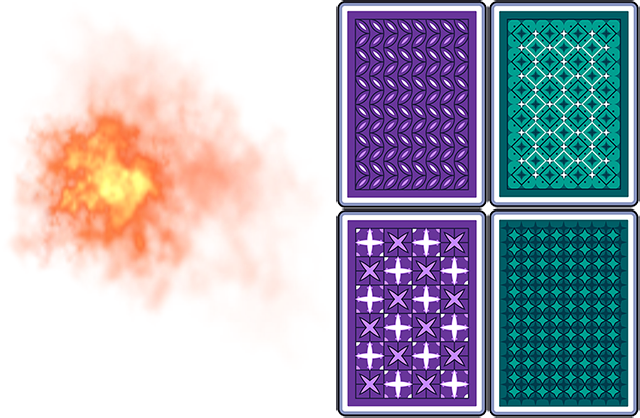
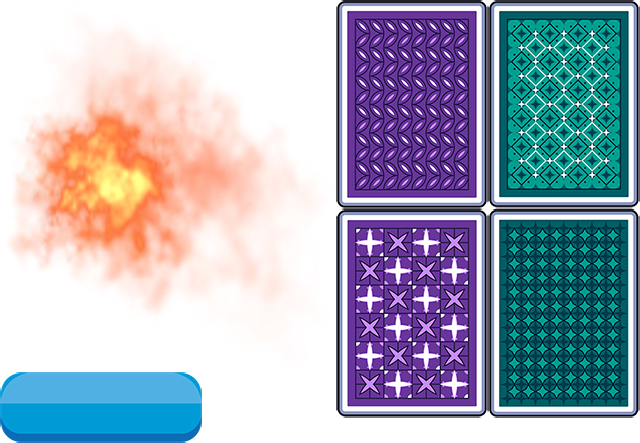
Removed Listeners for all scenes.

diff --git a/src/js/scenes/CardsScene.ts b/src/js/scenes/CardsScene.ts
@@ -4,6 +4,8 @@ import CardDeck from '../helpers/CardDeck';
 import CardsDeckManager from '../helpers/CardsDeckManager';
 import Fps from '../helpers/Fps';
 import { Scene } from '../helpers/Scene';
+import { sceneManager } from '../main';
+import FireScene from './FireScene';
 
 import assetsData from '../../assets/data/assets.json';
 import gameConfig from '../../assets/data/ace_of_shadows_config.json';
@@ -15,6 +17,7 @@ export default class CardsScene extends Scene {
     private _app: PIXI.Application;
     private _basicAnimations: BasicAnimations;
     private _fpsCounter?: Fps;
+    private _cardsDeckManager?: CardsDeckManager;
 
     constructor(app: PIXI.Application) {
         super();
@@ -46,6 +49,7 @@ export default class CardsScene extends Scene {
     private create(): void {
 
         sound.playSound('walking_jazz', true,0.5);
+        
         const cardsBackground = new PIXI.Sprite(PIXI.Assets.get('backgroundBlue'));
         cardsBackground.anchor.set(0.5);
         cardsBackground.angle = 90;
@@ -66,6 +70,17 @@ export default class CardsScene extends Scene {
         bitmapFontText.anchor.set(0.5);
         this._app.stage.addChild(bitmapFontText);
 
+        const button = new PIXI.Sprite(PIXI.Assets.get('gameAtlas').textures['button']);
+        button.anchor.set(0.5);
+        button.position.set(this._app.screen.width * 0.5, this._app.screen.height * 0.9);
+        button.eventMode = 'static';
+        button.cursor = 'pointer';
+        this._app.stage.addChild(button);
+        button.on('pointerdown', () => {
+            sound.playSound('pop');
+            sceneManager.changeScene(new FireScene(this._app));
+        });
+
         this._createCardDecks();
         this._createFPSCounter();
     }
@@ -82,12 +97,19 @@ export default class CardsScene extends Scene {
         cardDeck2.y = cardDeck.y;
         this._app.stage.addChild(cardDeck2);
 
-        const cardsDeckManager = new CardsDeckManager();
-        cardsDeckManager.moveCardsToDeck(this._app.stage, cardDeck, cardDeck2, gameConfig.cards_change_frequency, gameConfig.cards_change_speed);
+        this._cardsDeckManager = new CardsDeckManager();
+        this._cardsDeckManager.moveCardsToDeck(this._app.stage, cardDeck, cardDeck2, gameConfig.cards_change_frequency, gameConfig.cards_change_speed);
 
     }
 
     private _createFPSCounter(): void {
         this._fpsCounter = new Fps(this._app, 'FPS: 0');
+    }
+
+    public onDestroy(): void {
+        sound.stopAllSounds();
+        this._cardsDeckManager?.stopMovingCardsToDeck();
+        this._fpsCounter?.removeUpdateListener();
+
     }
 }

diff --git a/src/js/utilities/Sound.ts b/src/js/utilities/Sound.ts
@@ -2,10 +2,10 @@ import { resolve } from "../../../webpack.config";
 
 class Sound {
     private static instance: Sound;
-    private sounds: Map<string, HTMLAudioElement>;
+    private _sounds: Map<string, HTMLAudioElement>;
 
     private constructor() {
-        this.sounds = new Map();
+        this._sounds = new Map();
     }
 
     public static getInstance(): Sound {
@@ -21,18 +21,18 @@ class Sound {
 
             audio.addEventListener('error', () => {
                 console.error(`Failed to load sound "${key}" from URL: ${url}`);
-                this.sounds.delete(key); 
+                this._sounds.delete(key); 
             });
 
             audio.addEventListener('canplaythrough', () => {
-                this.sounds.set(key, audio);
+                this._sounds.set(key, audio);
                 resolve();
             });
         });
     }
 
-    playSound(key: string, loop: boolean = false, volume: number = 1.0): void {
-        const sound = this.sounds.get(key);
+    public playSound(key: string, loop: boolean = false, volume: number = 1.0): void {
+        const sound = this._sounds.get(key);
         if (!sound) {
             console.error(`Sound "${key}" not found!`);
             return;
@@ -47,19 +47,28 @@ class Sound {
         });
     }
 
-    stopSound(key: string): void {
-        const sound = this.sounds.get(key);
+    public stopSound(key: string): void {
+        const sound = this._sounds.get(key);
         if (sound && !sound.paused) {
             sound.pause();
             sound.currentTime = 0;
         }
     }
 
-    setVolume(key: string, volume: number): void {
-        const sound = this.sounds.get(key);
+    public setVolume(key: string, volume: number): void {
+        const sound = this._sounds.get(key);
         if (sound) {
             sound.volume = Math.max(0, Math.min(1, volume)); 
         }
+    }
+
+    public stopAllSounds(): void {
+        this._sounds.forEach((sound) => {
+            if (!sound.paused) {
+                sound.pause();
+                sound.currentTime = 0;
+            }
+        });
     }
 }
 

diff --git a/src/js/scenes/ChatScene.ts b/src/js/scenes/ChatScene.ts
@@ -2,7 +2,9 @@ import * as PIXI from 'pixi.js';
 import BasicAnimations from '../helpers/BasicAnimations';
 import IconsManager from '../helpers/IconsManager';
 import ChatManager from '../helpers/ChatManager';
+import CardsScene from './CardsScene';
 import { Scene } from '../helpers/Scene';
+import { sceneManager } from '../main';
 import Fps from '../helpers/Fps';
 
 import assetsData from '../../assets/data/assets.json';
@@ -15,6 +17,7 @@ export default class ChatScene extends Scene {
     private _basicAnimations: BasicAnimations;
     private _chatData?: JSON;
     private _fpsCounter?: Fps;
+    private _chatManager?: ChatManager;
 
     constructor(app: PIXI.Application) {
         super();
@@ -56,14 +59,32 @@ export default class ChatScene extends Scene {
         const chatManager = new ChatManager(this._app);
         chatManager.y = this._app.screen.height * 0.8;
         this._app.stage.addChild(chatManager);
+        this._chatManager = chatManager;
 
         chatManager.showDialogs(this._chatData);
         this._createFpsCounter();
+
+        const button = new PIXI.Sprite(PIXI.Assets.get('gameAtlas').textures['button']);
+        button.anchor.set(0.5);
+        button.position.set(this._app.screen.width * 0.5, this._app.screen.height * 0.9);
+        button.eventMode = 'static';
+        button.cursor = 'pointer';
+        this._app.stage.addChild(button);
+        button.on('pointerdown', () => {
+            sound.playSound('pop');
+            sceneManager.changeScene(new CardsScene(this._app));
+        });
         
         sound.playSound('bbt_song', true,0.2);
     }
 
     private _createFpsCounter(): void {
         this._fpsCounter = new Fps(this._app,'');
+    }
+
+    public onDestroy(): void {
+        sound.stopAllSounds();
+        this._fpsCounter?.removeUpdateListener();
+        this._chatManager?.stopDialogs();
     }
 }

diff --git a/src/js/scenes/FireScene.ts b/src/js/scenes/FireScene.ts
@@ -2,6 +2,8 @@ import * as PIXI from 'pixi.js';
 import FireParticles from '../helpers/FireParticles';
 import { Scene } from '../helpers/Scene';
 import Fps from '../helpers/Fps';
+import CardsScene from './CardsScene';
+import { sceneManager } from '../main';
 
 import assetsData from '../../assets/data/assets.json';
 
@@ -63,6 +65,18 @@ export default class Fire extends Scene {
         this._fireContainer.position.set(this._app.screen.width * 0.5, this._app.screen.height * 0.5);
         this._app.stage.addChild(this._fireContainer);
 
+        const button = new PIXI.Sprite(PIXI.Assets.get('gameAtlas').textures['button']);
+        button.anchor.set(0.5);
+        button.position.set(this._app.screen.width * 0.5, this._app.screen.height * 0.9);
+        button.eventMode = 'static';
+        button.cursor = 'pointer';
+        this._app.stage.addChild(button);
+        button.on('pointerdown', () => {
+            sound.playSound('pop');
+            sceneManager.changeScene(new CardsScene(this._app));
+        });
+
+
         sound.playSound('fire_sound', true, 0.2);
         this._followMouse();
         this._createFPSCounter();
@@ -85,5 +99,10 @@ export default class Fire extends Scene {
 
     private _createFPSCounter(): void {
         this._fpsCounter = new Fps(this._app, '', 'futuraPTBold', 24);
+    }
+
+    public onDestroy(): void {
+        sound.stopAllSounds();
+        this._fpsCounter?.removeUpdateListener();
     }
 }

diff --git a/src/js/helpers/ChatManager.ts b/src/js/helpers/ChatManager.ts
@@ -9,16 +9,19 @@ export default class ChatManager extends PIXI.Container {
     private _messagesPosition: number = 0;
     private _messagesOffset: number;
     private _currentDialogIndex: number = 0;
+    private _active : boolean;
+    private _currentChatDialog?: ChatDialog;
 
     constructor(app: PIXI.Application, messagesOffset: number = 150) {
         super();
         this._app = app;
         this._messagesOffset = messagesOffset;
         this._currentDialogIndex = 0;
+        this._active = true;
     }
 
     public async showDialogs(data: any): Promise<void> {
-        if (this._currentDialogIndex >= data.dialogue.length) {
+        if (this._currentDialogIndex >= data.dialogue.length || !this._active) {
             return;
         }
 
@@ -29,9 +32,18 @@ export default class ChatManager extends PIXI.Container {
         const chatDialog = new ChatDialog(this._app, currentDialog, data.avatars, gameConfig.time_per_word);
         chatDialog.y = this._messagesPosition;
         this.addChild(chatDialog);
+
+        this._currentChatDialog = chatDialog;
         this._messagesPosition += this._messagesOffset;
         await chatDialog.showDialog();
         this._currentDialogIndex++;
         this.showDialogs(data);
+    }
+
+    public stopDialogs(): void {
+        this._active = false;
+        if (this._currentChatDialog) {
+            this._currentChatDialog.stopShowingDialog();
+        }
     }
 }

diff --git a/src/js/helpers/ChatDialog.ts b/src/js/helpers/ChatDialog.ts
@@ -12,6 +12,7 @@ export default class ChatDialog extends PIXI.Container {
     private _wordsOffset: number = 5;
     private _timePerWord: number = 0;
     private _iconsScale: number = 0.25;
+    private _active: boolean;
 
     private _defaultAvatar: string = 'Leonard'; 
 
@@ -21,6 +22,7 @@ export default class ChatDialog extends PIXI.Container {
         super();
         this._app = app;
         this._timePerWord = timePerWord;
+        this._active = true;
 
         const usedAvatar = avatars.find(avatar => avatar.name === dialogue.name);
         const isLeft = usedAvatar ? usedAvatar.position === 'left' : false;
@@ -122,6 +124,7 @@ export default class ChatDialog extends PIXI.Container {
         if (!this._dialoguesContainer) return;
     
         for (let i = 0; i < this._dialoguesContainer.children.length; i++) {
+            if (!this._active) return;
             const word = this._dialoguesContainer.children[i];
             const timeToWait = word instanceof PIXI.BitmapText ? word.text.length * this._timePerWord : this._timePerWord;
             await this._delay(timeToWait);
@@ -133,6 +136,10 @@ export default class ChatDialog extends PIXI.Container {
     
     private _delay(seconds: number): Promise<void> {
         return new Promise(resolve => setTimeout(resolve, seconds * 1000));
+    }
+
+    public stopShowingDialog(): void { 
+        this._active = false;
     }
     
 }

diff --git a/src/js/helpers/CardsDeckManager.ts b/src/js/helpers/CardsDeckManager.ts
@@ -6,9 +6,10 @@ import sound from '../utilities/Sound';
 
 export default class CardsDeckManager {
 
+    private _moveInterval?: NodeJS.Timeout;
     public moveCardsToDeck(stage : PIXI.Container,initialDeck : CardDeck, finalDeck : CardDeck, moveFrequency : number, timeToMove : number): void {
         const cards = initialDeck.children;
-        const moveInterval = setInterval(() => {
+        this._moveInterval = setInterval(() => {
             const card = initialDeck.removeLastCard();
             stage.addChild(card);
             card.x += initialDeck.x;
@@ -23,7 +24,7 @@ export default class CardsDeckManager {
                 onComplete: () => {
                     finalDeck.addCard(card);
                     if (cards.length === 0) {
-                        clearInterval(moveInterval);
+                        clearInterval(this._moveInterval);
                     }
                 }
             });
@@ -36,5 +37,10 @@ export default class CardsDeckManager {
                 duration: 0.2,
             });
         }, moveFrequency * 1000);
+    }
+
+    public stopMovingCardsToDeck(): void {
+        gsap.globalTimeline.clear();
+        clearInterval(this._moveInterval);
     }
 }

diff --git a/src/js/helpers/SceneManager.ts b/src/js/helpers/SceneManager.ts
@@ -2,22 +2,22 @@ import * as PIXI from 'pixi.js';
 import { Scene } from './Scene';
 
 export class SceneManager {
-    private app: PIXI.Application;
+    private _app: PIXI.Application;
     private currentScene: Scene | null = null;
 
     constructor(app: PIXI.Application) {
-        this.app = app;
+        this._app = app;
     }
 
     changeScene(newScene: Scene): void {
         if (this.currentScene) {
-            this.app.stage.removeChild(this.currentScene);
+            this._app.stage.removeChild(this.currentScene);
             this.currentScene.destroyScene();
         }
 
         this.currentScene = newScene;
         this.currentScene.init();
-        this.app.stage.addChild(this.currentScene);
+        this._app.stage.addChild(this.currentScene);
     }
 
     update(delta: number): void {

diff --git a/src/js/helpers/Scene.ts b/src/js/helpers/Scene.ts
@@ -15,11 +15,13 @@ export abstract class Scene extends PIXI.Container {
     }
 
     protected abstract onInit(): void;
+    onDestroy(): void {}
 
     update(delta: number): void {}
 
     destroyScene(): void {
         this.removeAllListeners();
         this.destroy({ children: true });
+        this.onDestroy();
     }
 }

diff --git a/src/js/helpers/Fps.ts b/src/js/helpers/Fps.ts
@@ -25,7 +25,7 @@ export default class Fps extends PIXI.BitmapText {
         }, this._updateFrequency);
     }
 
-    public removeUpdateListener(app : PIXI.Application): void {
+    public removeUpdateListener(): void {
         clearInterval(this._fpsInterval);
     }
 }
